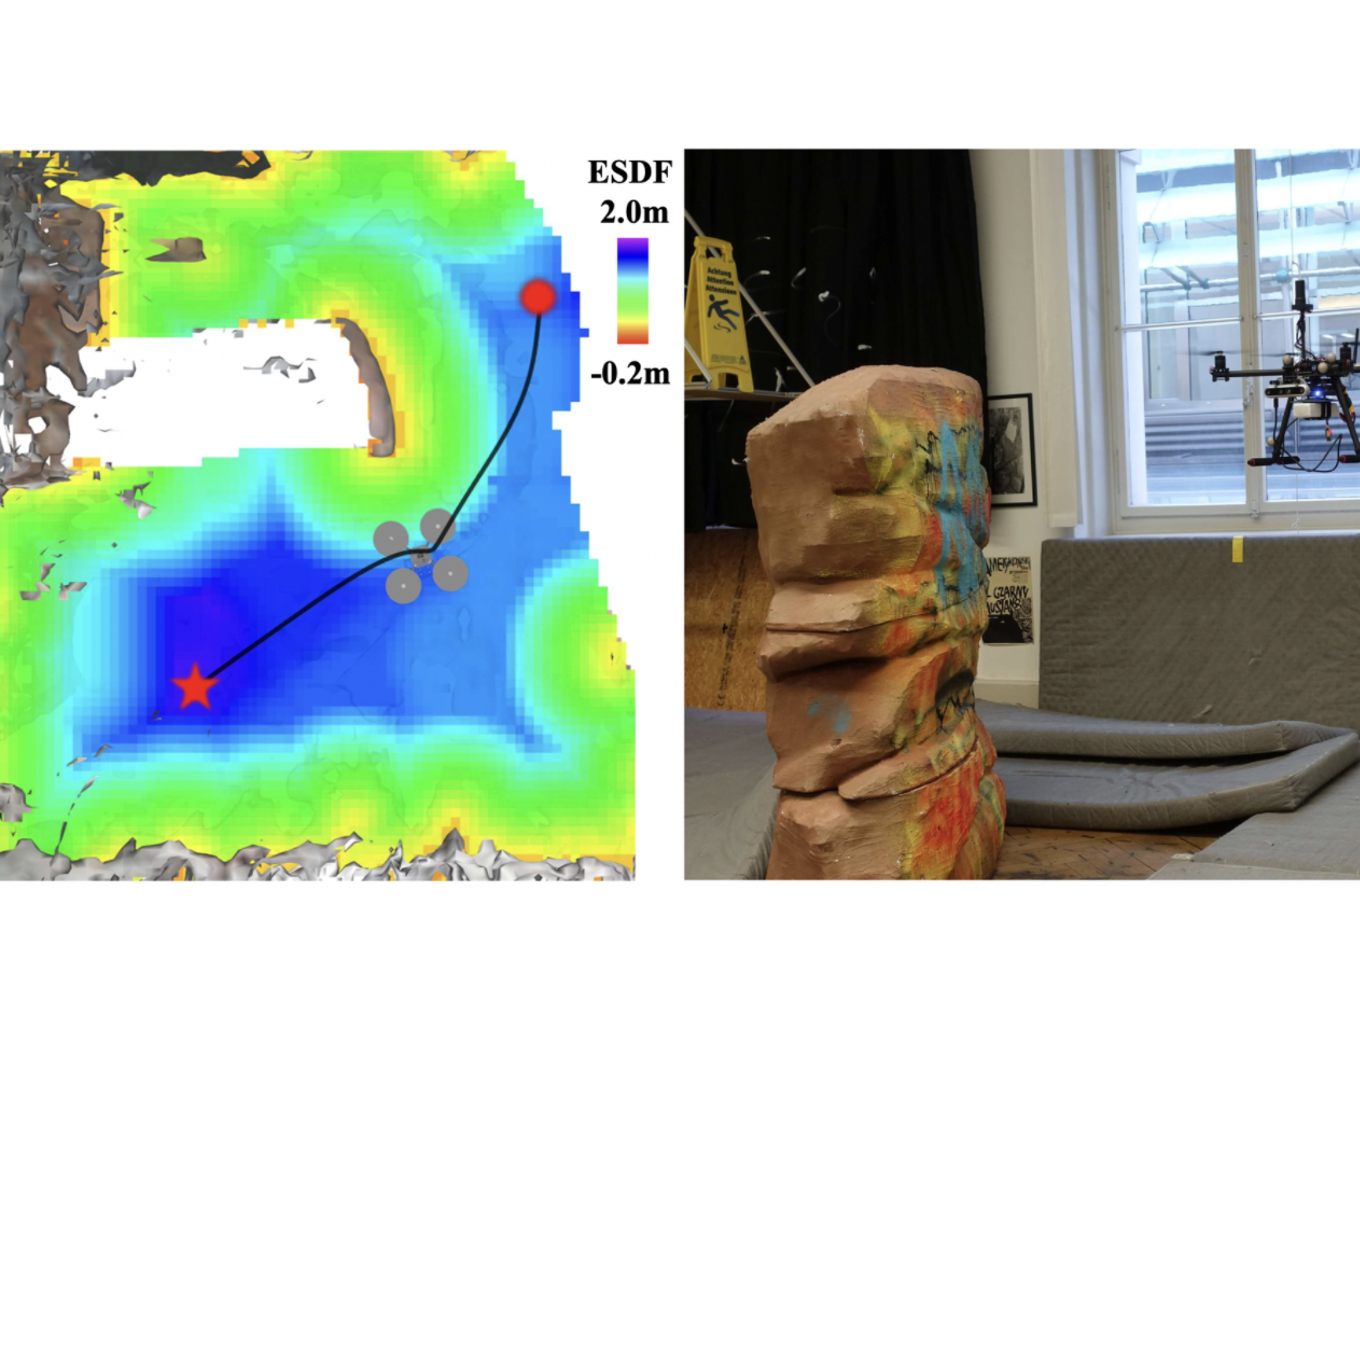
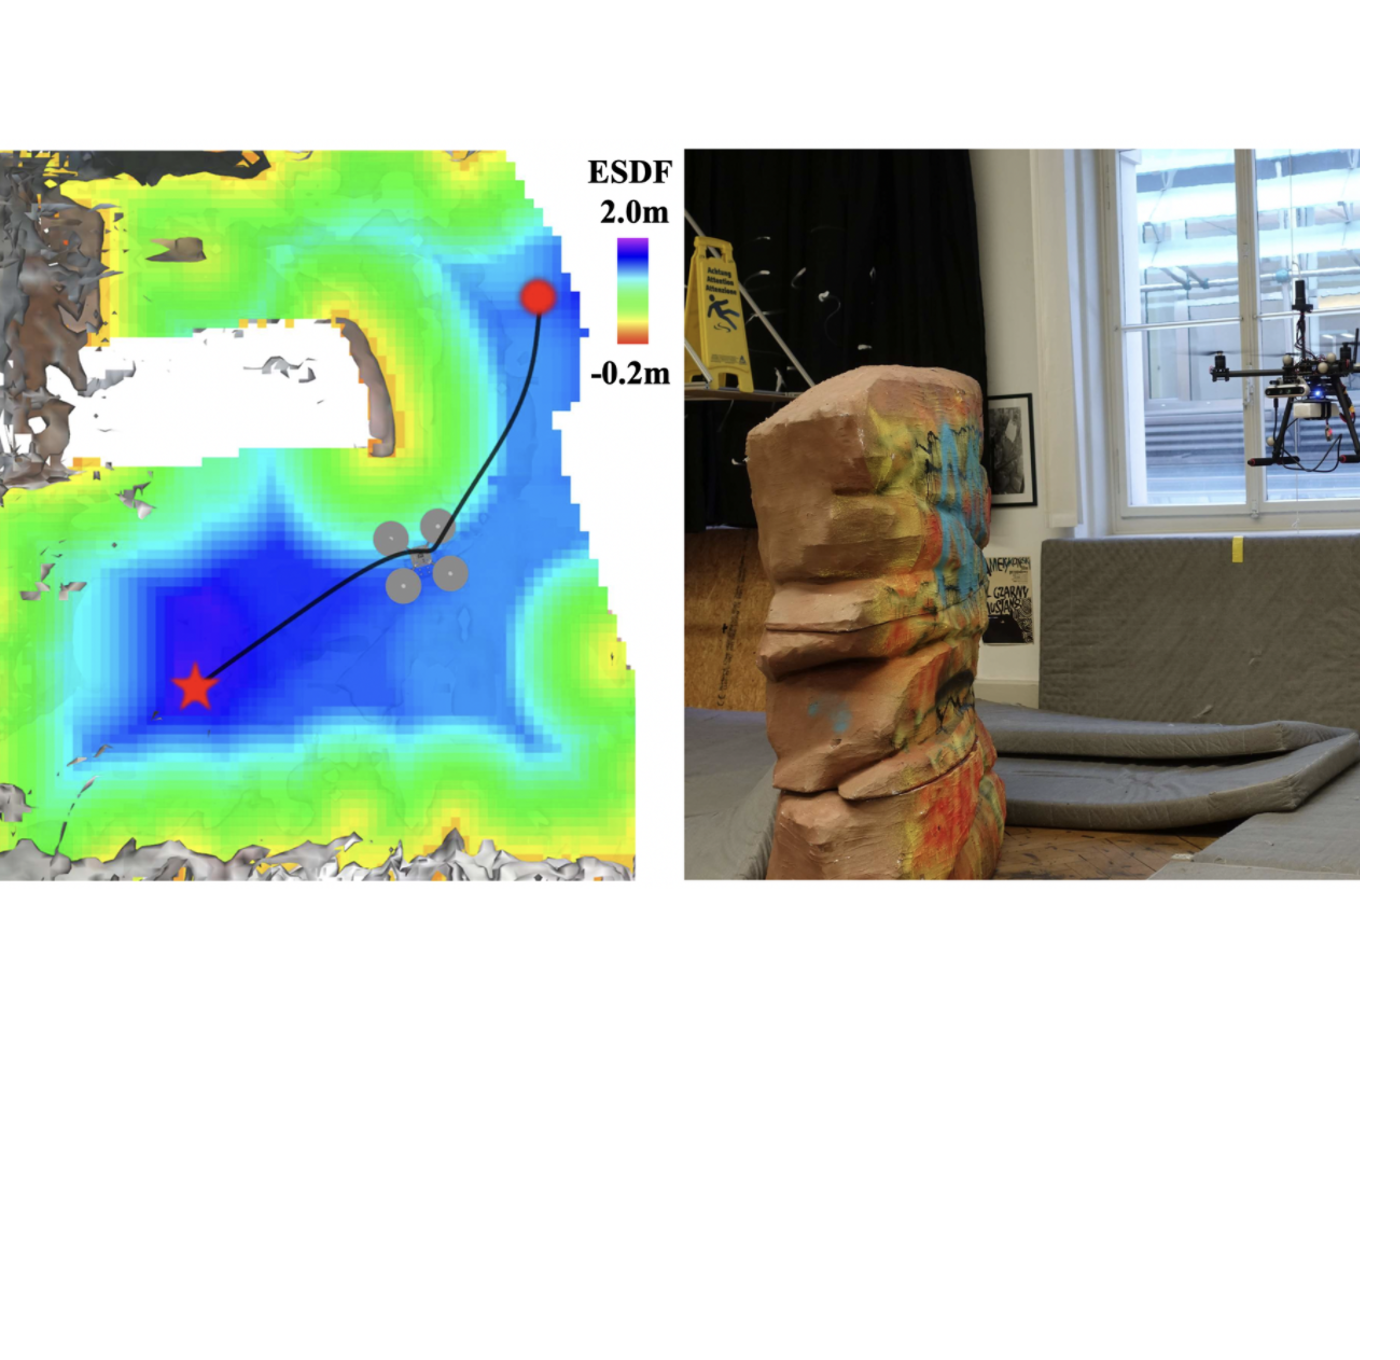
update info

diff --git a/_posts/2022-7-9-about.md b/_posts/2022-7-9-about.md
@@ -20,7 +20,7 @@ My detailed CV can be found in my [Linkedin](https://www.linkedin.com/in/yue-pan
 
 Full list: [Google Scholar](https://scholar.google.com/citations?hl=en&user=PUlWya8AAAAJ)
 
-<img align="left" src="../assets/voxfield_teaser.png" style="zoom: 19%;"/>**Voxfield: non-Projective Signed Distance Fields for Online Planning and 3D Reconstruction**
+<img align="left" src="../assets/voxfield_teaser.png" style="zoom: 18%;"/>**Voxfield: non-Projective Signed Distance Fields for Online Planning and 3D Reconstruction**
 
 **Yue Pan**, Yves Kompis, Luca Bartolomei, Ruben Mascaro, Margarita Chli, et al.
 
